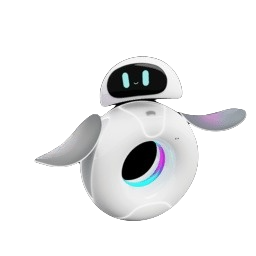
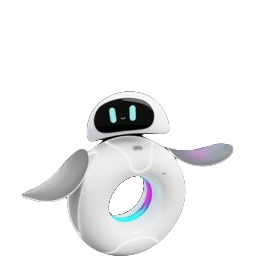
Adicionado a movimentacao do personagem

Changed region(s): [[0.0625, 0.2188, 0.9688, 1.0]]

diff --git a/src/scenes/Scene01.ts b/src/scenes/Scene01.ts
@@ -1,16 +1,10 @@
 import Phaser from 'phaser'
+import Player from '../physics/Player'
 
 export default class Scene01 extends Phaser.Scene {
   sky!: Phaser.GameObjects.Image
-  player!: Phaser.Physics.Arcade.Sprite
+  player!: Player
   platforms!: Phaser.Physics.Arcade.StaticGroup
-  cursors!: Phaser.Types.Input.Keyboard.CursorKeys | undefined
-  keyW!: Phaser.Input.Keyboard.Key | undefined
-  keyA!: Phaser.Input.Keyboard.Key | undefined
-  keyS!: Phaser.Input.Keyboard.Key | undefined
-  keyD!: Phaser.Input.Keyboard.Key | undefined
-  keySpace!: Phaser.Input.Keyboard.Key | undefined
-  jumping = false
 
   constructor() {
     super('scene01')
@@ -19,7 +13,7 @@ export default class Scene01 extends Phaser.Scene {
   preload() {
     this.load.image('sky', 'assets/background/sky.png')
     this.load.image('ground', 'assets/background/ground.png')
-    this.load.spritesheet('player', 'assets/player/idle.png', { frameWidth: 256, frameHeight: 256 })
+    Player.preload(this)
   }
 
   create() {
@@ -27,14 +21,7 @@ export default class Scene01 extends Phaser.Scene {
     this.sky.displayWidth = this.cameras.main.width
     this.sky.displayHeight = this.cameras.main.height
 
-    this.player = this.physics.add.sprite(100, 400, 'player').setScale(0.5).setCollideWorldBounds(true)
-
-    this.cursors = this.input.keyboard?.createCursorKeys()
-    this.keyW = this.input.keyboard?.addKey(Phaser.Input.Keyboard.KeyCodes.W)
-    this.keyA = this.input.keyboard?.addKey(Phaser.Input.Keyboard.KeyCodes.A)
-    this.keyS = this.input.keyboard?.addKey(Phaser.Input.Keyboard.KeyCodes.S)
-    this.keyD = this.input.keyboard?.addKey(Phaser.Input.Keyboard.KeyCodes.D)
-    this.keySpace = this.input.keyboard?.addKey(Phaser.Input.Keyboard.KeyCodes.SPACE)
+    this.player = new Player(this, 100, 100)
 
     this.platforms = this.physics.add.staticGroup()
     this.platforms.create(400, 568, 'ground').refreshBody()
@@ -42,33 +29,9 @@ export default class Scene01 extends Phaser.Scene {
     this.physics.add.collider(this.player, this.platforms)
 
     this.physics.world.setBounds(-50, 0, this.cameras.main.width + 100, this.cameras.main.height)
-
-    this.anims.create({
-      key: 'walk',
-      frames: this.anims.generateFrameNumbers('player', { start: 0, end: 1 }),
-      frameRate: 8,
-      repeat: -1,
-    })
   }
 
   update() {
-    const speed = 220
-    this.jumping = !this.player.body?.touching.down
-
-    if (this.cursors?.left?.isDown || this.keyA?.isDown) {
-      this.player.setVelocityX(-speed)
-      this.player.anims.play('walk', true)
-    } else if (this.cursors?.right?.isDown || this.keyD?.isDown) {
-      this.player.setVelocityX(speed)
-      this.player.anims.play('walk', true)
-    } else {
-      this.player.setVelocityX(0)
-    }
-
-    if ((this.cursors?.up?.isDown || this.keyW?.isDown || this.keySpace?.isDown) && !this.jumping) {
-      this.player.setVelocityY(-speed)
-    } else if (this.cursors?.down?.isDown || this.keyS?.isDown) {
-      this.player.setVelocityY(speed)
-    }
+    this.player.update()
   }
 }

diff --git a/src/physics/Player.ts b/src/physics/Player.ts
@@ -1,0 +1,82 @@
+import Phaser from 'phaser'
+
+export default class Player extends Phaser.Physics.Arcade.Sprite {
+  cursors!: Phaser.Types.Input.Keyboard.CursorKeys | undefined
+  keyW!: Phaser.Input.Keyboard.Key | undefined
+  keyA!: Phaser.Input.Keyboard.Key | undefined
+  keyS!: Phaser.Input.Keyboard.Key | undefined
+  keyD!: Phaser.Input.Keyboard.Key | undefined
+  keySpace!: Phaser.Input.Keyboard.Key | undefined
+  jumping = false
+
+  constructor(scene: Phaser.Scene, x: number, y: number) {
+    super(scene, x, y, 'idle_opened_eyes')
+
+    this.scene.add.existing(this)
+    this.scene.physics.add.existing(this)
+
+    this.initCursorKeys()
+    this.initAnimations()
+
+    this.setScale(0.5).setCollideWorldBounds(true).setBounce(0.2)
+  }
+
+  public static preload(scene: Phaser.Scene) {
+    scene.load.image('idle_opened_eyes', 'assets/player/idle_opened_eyes.png')
+    scene.load.image('idle_closed_eyes', 'assets/player/idle_closed_eyes.png')
+    scene.load.image('walking_opened_eyes', 'assets/player/walking_opened_eyes.png')
+    scene.load.image('walking_closed_eyes', 'assets/player/walking_closed_eyes.png')
+  }
+
+  update() {
+    const speed = 300
+    this.jumping = !this.body?.touching.down
+
+    if (this.cursors?.left?.isDown || this.keyA?.isDown) {
+      this.flipX = true
+      this.setVelocityX(-speed)
+      this.anims.play('walk', true)
+    } else if (this.cursors?.right?.isDown || this.keyD?.isDown) {
+      this.flipX = false
+      this.setVelocityX(speed)
+      this.anims.play('walk', true)
+    } else {
+      this.setVelocityX(0)
+    }
+
+    if ((this.cursors?.up?.isDown || this.keyW?.isDown || this.keySpace?.isDown) && !this.jumping) {
+      this.setVelocityY(-speed)
+    } else if (this.cursors?.down?.isDown || this.keyS?.isDown) {
+      this.setVelocityY(speed)
+    }
+
+    if (this.body?.velocity.x === 0) {
+      this.anims.play('idle', true)
+    }
+  }
+
+  private initCursorKeys() {
+    this.cursors = this.scene.input.keyboard?.createCursorKeys()
+    this.keyW = this.scene.input.keyboard?.addKey(Phaser.Input.Keyboard.KeyCodes.W)
+    this.keyA = this.scene.input.keyboard?.addKey(Phaser.Input.Keyboard.KeyCodes.A)
+    this.keyS = this.scene.input.keyboard?.addKey(Phaser.Input.Keyboard.KeyCodes.S)
+    this.keyD = this.scene.input.keyboard?.addKey(Phaser.Input.Keyboard.KeyCodes.D)
+    this.keySpace = this.scene.input.keyboard?.addKey(Phaser.Input.Keyboard.KeyCodes.SPACE)
+  }
+
+  private initAnimations() {
+    this.scene.anims.create({
+      key: 'idle',
+      frames: [{ key: 'idle_opened_eyes' }, { key: 'idle_closed_eyes' }],
+      frameRate: 3,
+      repeat: -1,
+    })
+
+    this.scene.anims.create({
+      key: 'walk',
+      frames: [{ key: 'walking_opened_eyes' }, { key: 'walking_closed_eyes' }],
+      frameRate: 3,
+      repeat: -1,
+    })
+  }
+}

diff --git a/src/main.ts b/src/main.ts
@@ -10,10 +10,11 @@ const config = {
   physics: {
     default: 'arcade',
     arcade: {
-      gravity: { y: 600 },
+      gravity: { y: 800 },
     },
   },
   scene: [Scene01],
-}
+  pixelArt: true,
+} as Phaser.Types.Core.GameConfig
 
 export default new Phaser.Game(config)
